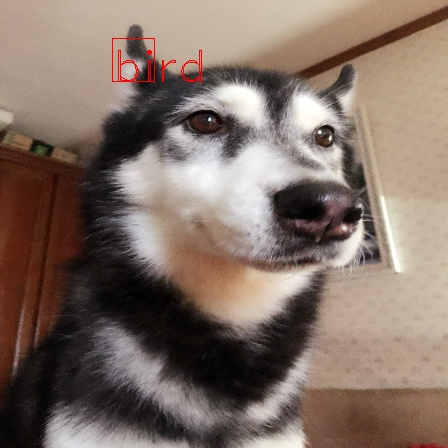
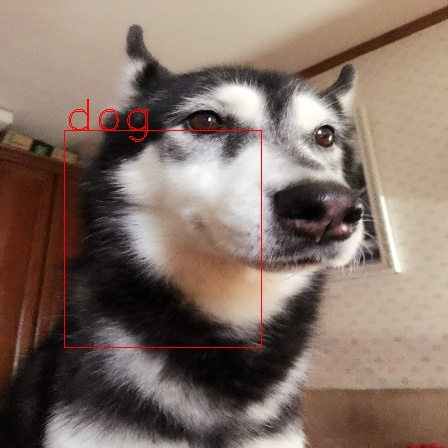
results

Changed region(s): [[0.125, 0.2188, 0.5938, 0.7812], [0.25, 0.0625, 0.4688, 0.1875]]

diff --git a/tensorflow-yolo-python2.7/demo.py b/tensorflow-yolo-python2.7/demo.py
@@ -75,7 +75,7 @@ for i in range(1,7):
 
 	saver = tf.train.Saver(net.trainable_collection)
 
-	saver.restore(sess, 'models/train/model.ckpt-0')
+	saver.restore(sess, 'models/train/model.ckpt-5000')
 
 	np_predict = sess.run(predicts, feed_dict={image: np_img})
 
